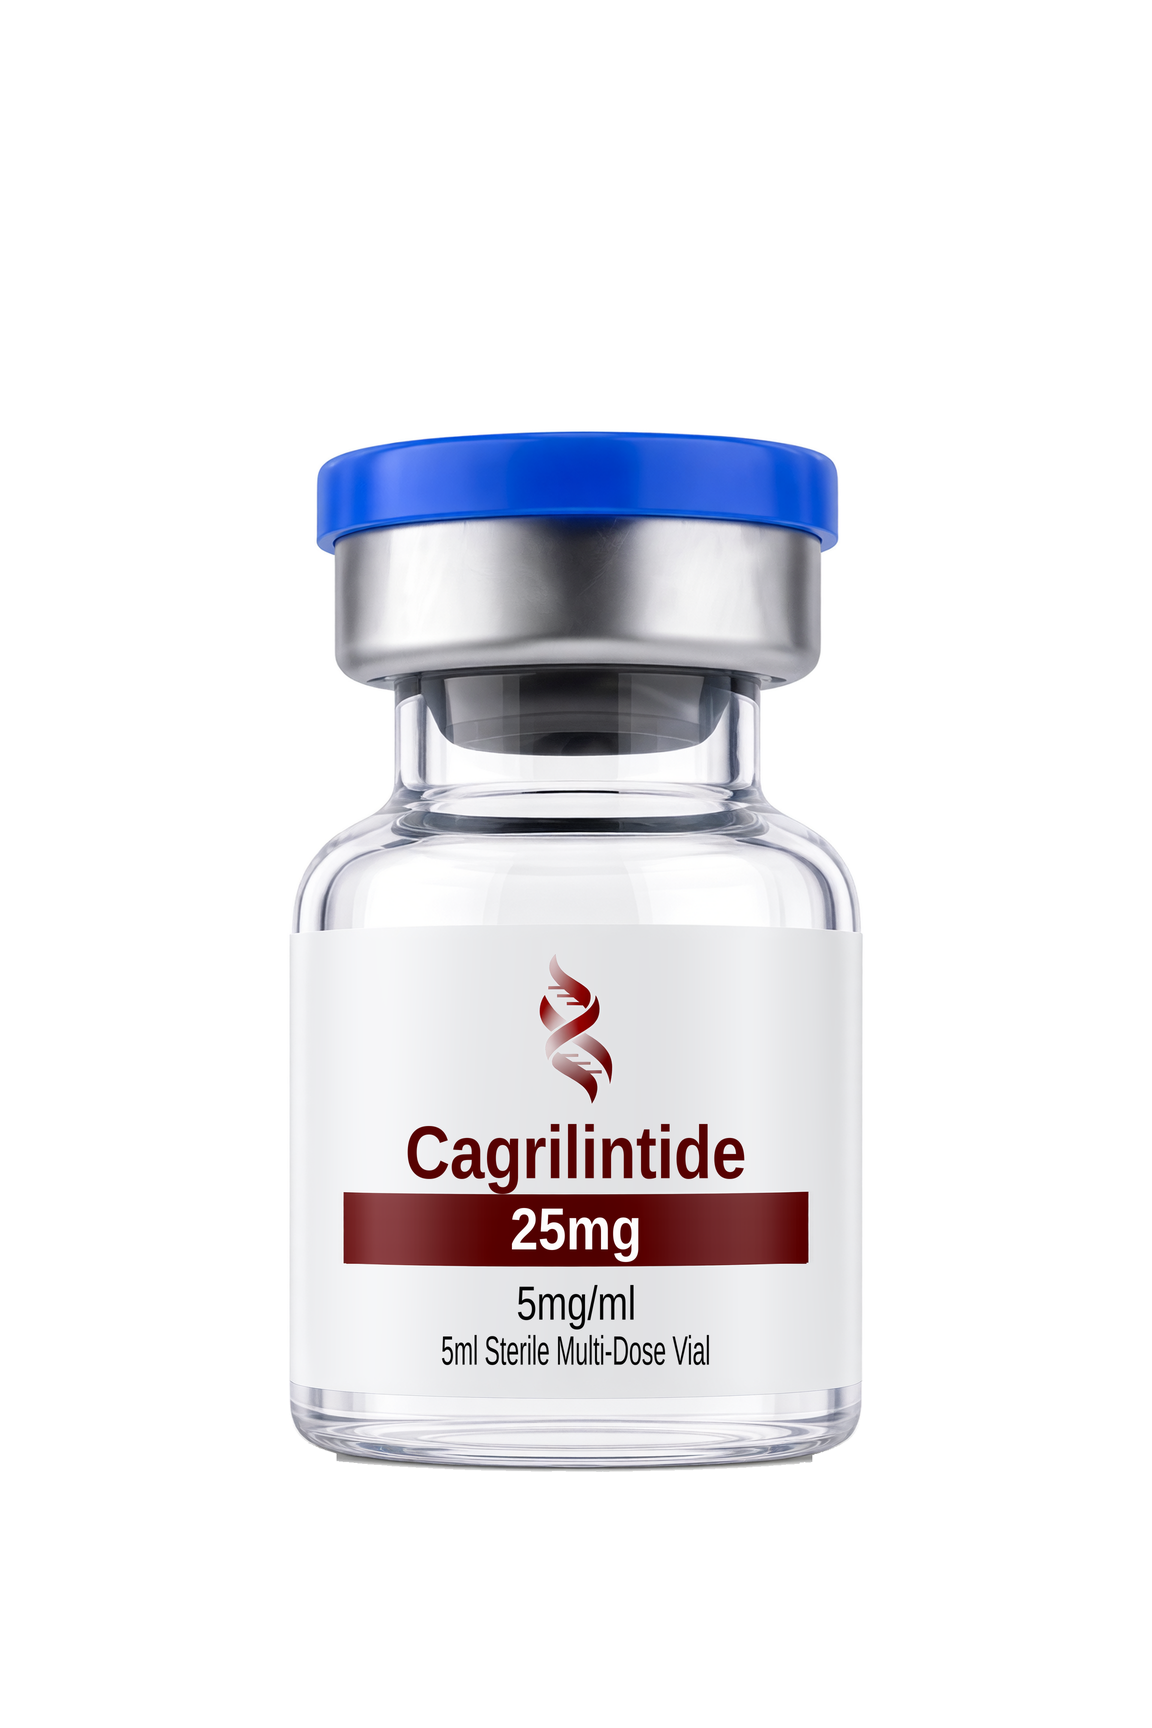
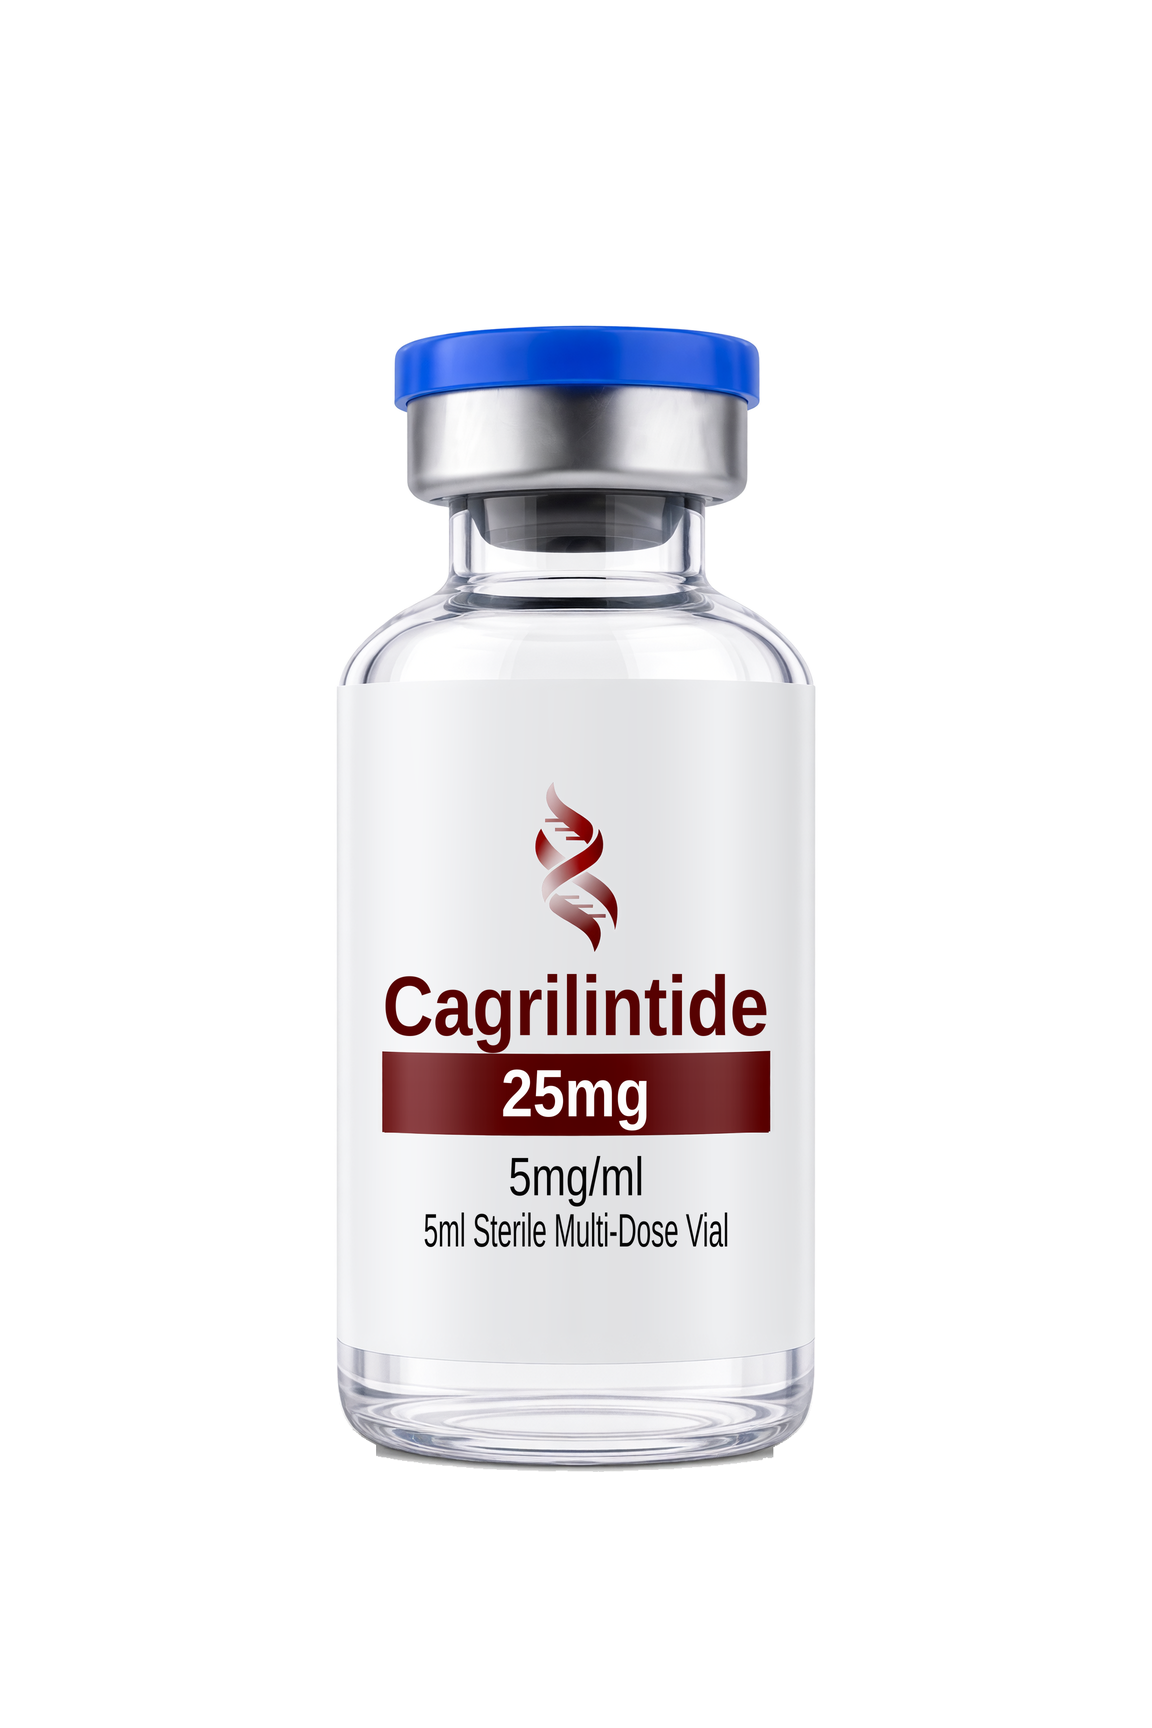
Correct Retatrutide 30mg/50mg vial labels to 3 mL/5 mL at 10 mg/mL and narrow the 5 mL vial (owner-approved)

Changed region(s): [[0.25, 0.1875, 0.75, 0.875]]

diff --git a/woocommerce-migration/tools/rerender-product-images-v2/pbv_rerender.py b/woocommerce-migration/tools/rerender-product-images-v2/pbv_rerender.py
@@ -247,8 +247,8 @@ VIALS = {
     302: ("Tesamorelin", "30mg", "3mg/ml", "10ml Sterile Multi-Dose Vial", 10),
     303: ("BPC-157/TB-500", "10mg/10mg", "1mg/ml / 1mg/ml", "10mL Sterile Multi-Dose Vial", 10),
     821: ("Retatrutide", "20mg", "10 mg/mL", "2ml Sterile Multi-Use Vial", 2),
-    822: ("Retatrutide", "30mg", "15 mg/mL", "2ml Sterile Multi-Use Vial", 2),
-    823: ("Retatrutide", "50mg", "16.67 mg/mL", "3ml Sterile Multi-Use Vial", 3),
+    822: ("Retatrutide", "30mg", "10 mg/mL", "3ml Sterile Multi-Use Vial", 3),
+    823: ("Retatrutide", "50mg", "10 mg/mL", "5ml Sterile Multi-Use Vial", 5),
     824: ("Tirzepatide", "50mg", "10 mg/mL", "5ml Sterile Multi-Use Vial", 5),
     825: ("KPV", "10mg", "1mg/ml", "10mL Sterile Multi-Dose Vial", 10),
     826: ("Ipamorelin", "10mg", "1mg/ml", "10mL Sterile Multi-Dose Vial", 10),
@@ -381,7 +381,7 @@ INK = {"name": (87, 1, 1), "dose": (253, 253, 253), "conc": (4, 4, 4), "foot": (
 
 # ---------------- physical volume classes -----------------------------------------
 # (body diameter mm, total height mm, crimp-cap diameter mm) - typical crimp-top serum vials
-VOL = {10: (24.0, 50.0, 20.0), 5: (22.0, 40.0, 20.0), 3: (17.0, 38.0, 13.0), 2: (16.0, 35.0, 13.0)}
+VOL = {10: (24.0, 50.0, 20.0), 5: (18.37, 44.0, 14.0), 3: (17.0, 38.0, 13.0), 2: (16.0, 35.0, 13.0)}
 CANVAS = (1152, 1728); BOTTOM = 1472; TOP10 = 168; CX = 576
 PX_PER_MM = (BOTTOM - TOP10) / VOL[10][1]           # 26.08 px/mm on the output canvas
 SS = 2                                               # supersampling factor
